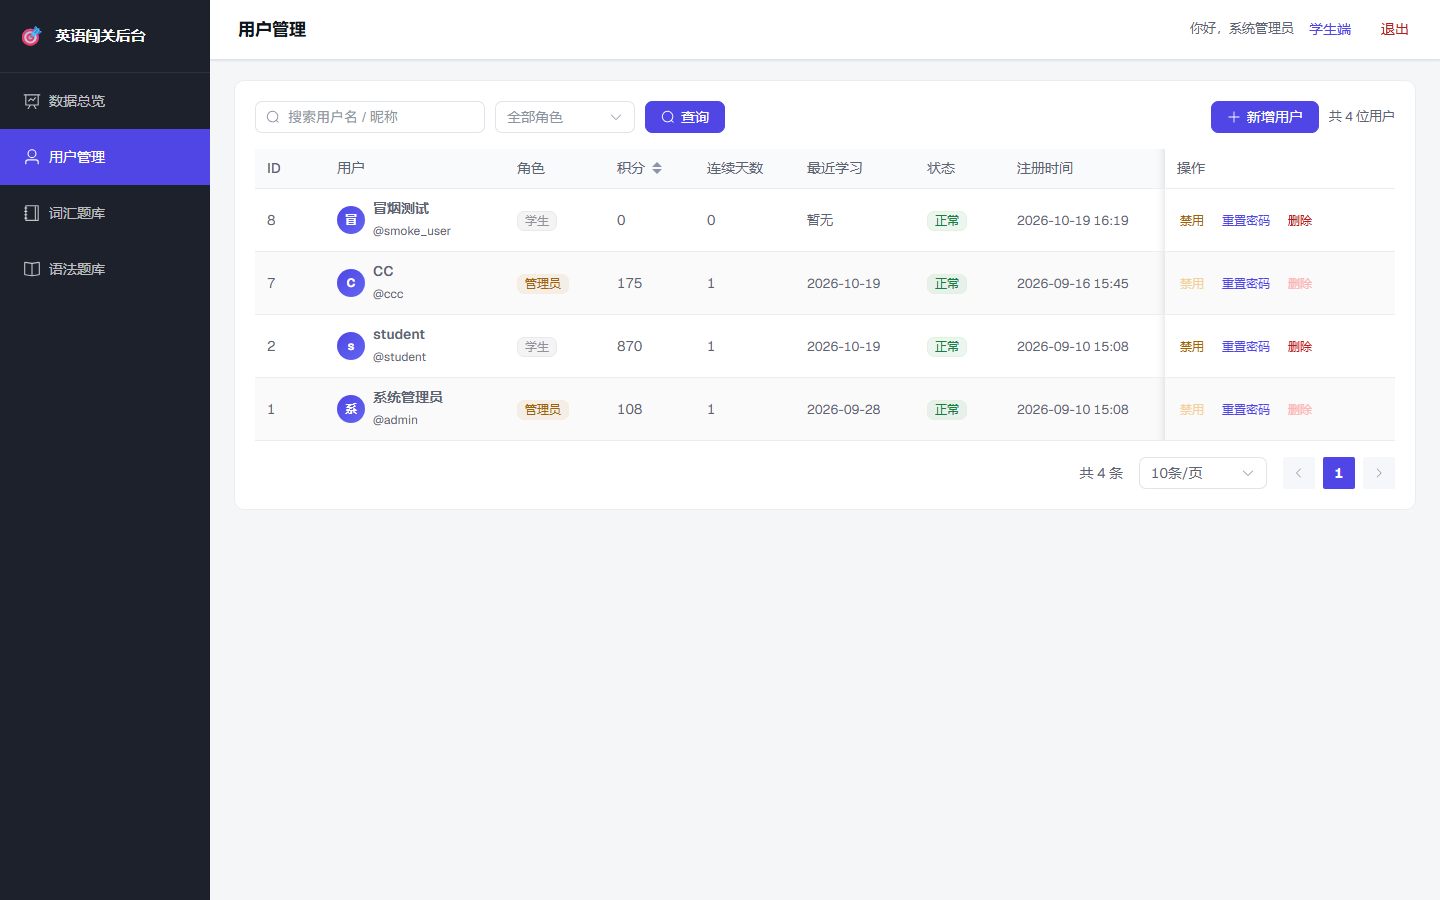
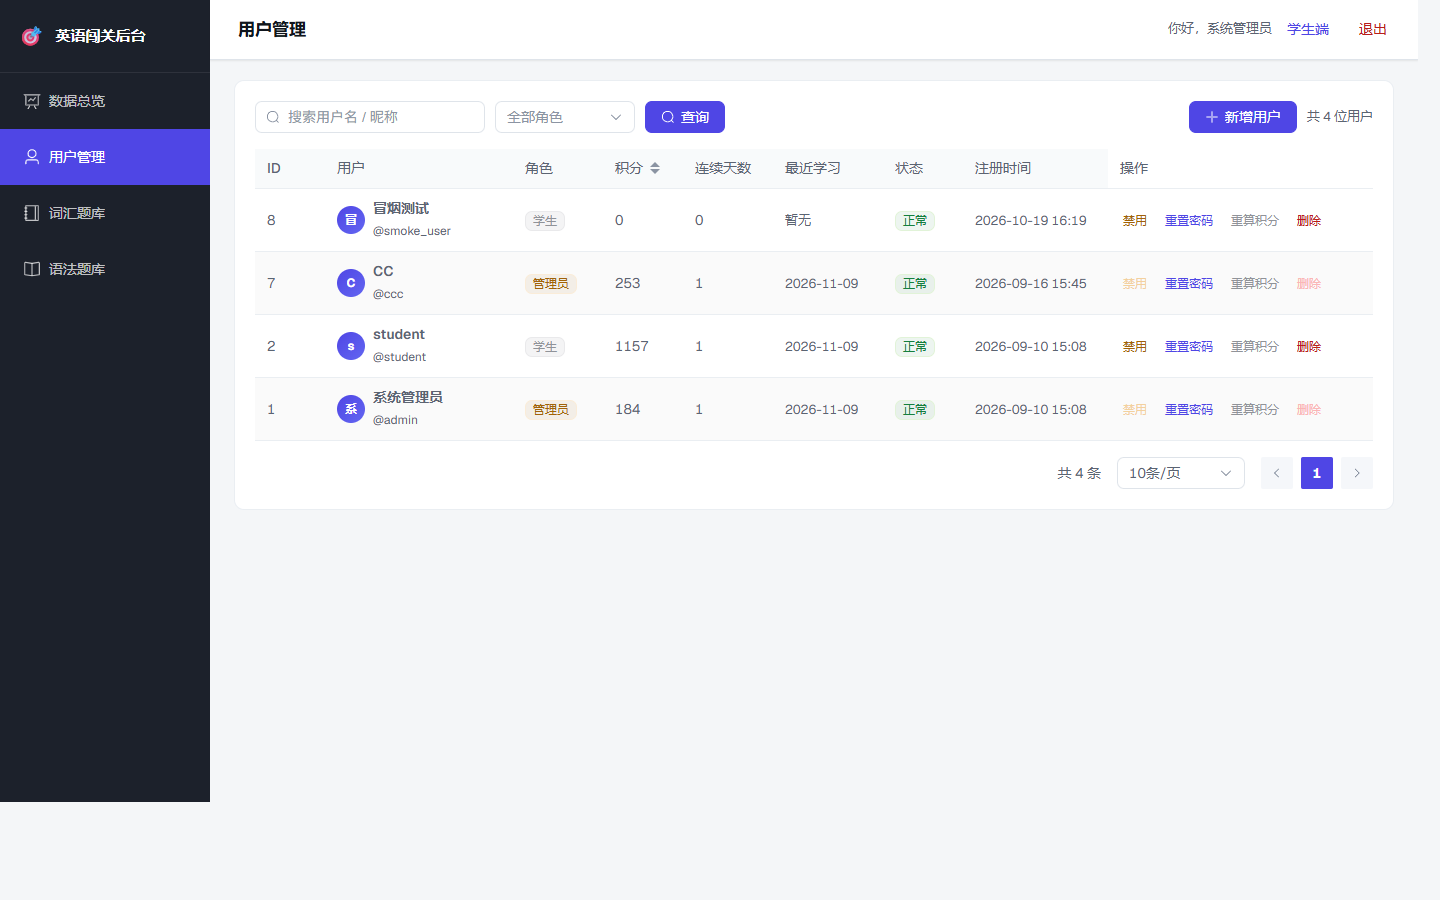
fix(admin): 收紧用户表列宽，修掉操作列加宽后的横向溢出

diff --git a/frontend/src/views/admin/AdminUsers.vue b/frontend/src/views/admin/AdminUsers.vue
@@ -17,7 +17,7 @@
 
     <el-table :data="list" v-loading="loading" stripe style="width:100%">
       <el-table-column prop="id" label="ID" width="70" />
-      <el-table-column label="用户" min-width="180">
+      <el-table-column label="用户" min-width="160">
         <template #default="{ row }">
           <div style="display:flex;align-items:center;gap:8px">
             <div class="avatar" style="width:28px;height:28px;font-size:12px">
@@ -30,33 +30,33 @@
           </div>
         </template>
       </el-table-column>
-      <el-table-column label="角色" width="100">
+      <el-table-column label="角色" width="90">
         <template #default="{ row }">
           <el-tag :type="row.role === 'ADMIN' ? 'warning' : 'info'" size="small">
             {{ row.role === 'ADMIN' ? '管理员' : '学生' }}
           </el-tag>
         </template>
       </el-table-column>
-      <el-table-column prop="totalPoints" label="积分" width="90" sortable />
-      <el-table-column prop="streakDays" label="连续天数" width="100" />
-      <el-table-column prop="lastStudyDate" label="最近学习" width="120">
+      <el-table-column prop="totalPoints" label="积分" width="80" sortable />
+      <el-table-column prop="streakDays" label="连续天数" width="90" />
+      <el-table-column prop="lastStudyDate" label="最近学习" width="110">
         <template #default="{ row }">
           <span class="muted">{{ row.lastStudyDate || '暂无' }}</span>
         </template>
       </el-table-column>
-      <el-table-column label="状态" width="90">
+      <el-table-column label="状态" width="80">
         <template #default="{ row }">
           <el-tag :type="row.status === 1 ? 'success' : 'danger'" size="small">
             {{ row.status === 1 ? '正常' : '禁用' }}
           </el-tag>
         </template>
       </el-table-column>
-      <el-table-column label="注册时间" width="170">
+      <el-table-column label="注册时间" width="145">
         <template #default="{ row }">
           <span class="muted">{{ (row.createTime || '').replace('T', ' ').slice(0, 16) }}</span>
         </template>
       </el-table-column>
-      <el-table-column label="操作" width="310" fixed="right">
+      <el-table-column label="操作" width="265" fixed="right">
         <template #default="{ row }">
           <el-button
             size="small" :type="row.status === 1 ? 'warning' : 'success'" link
